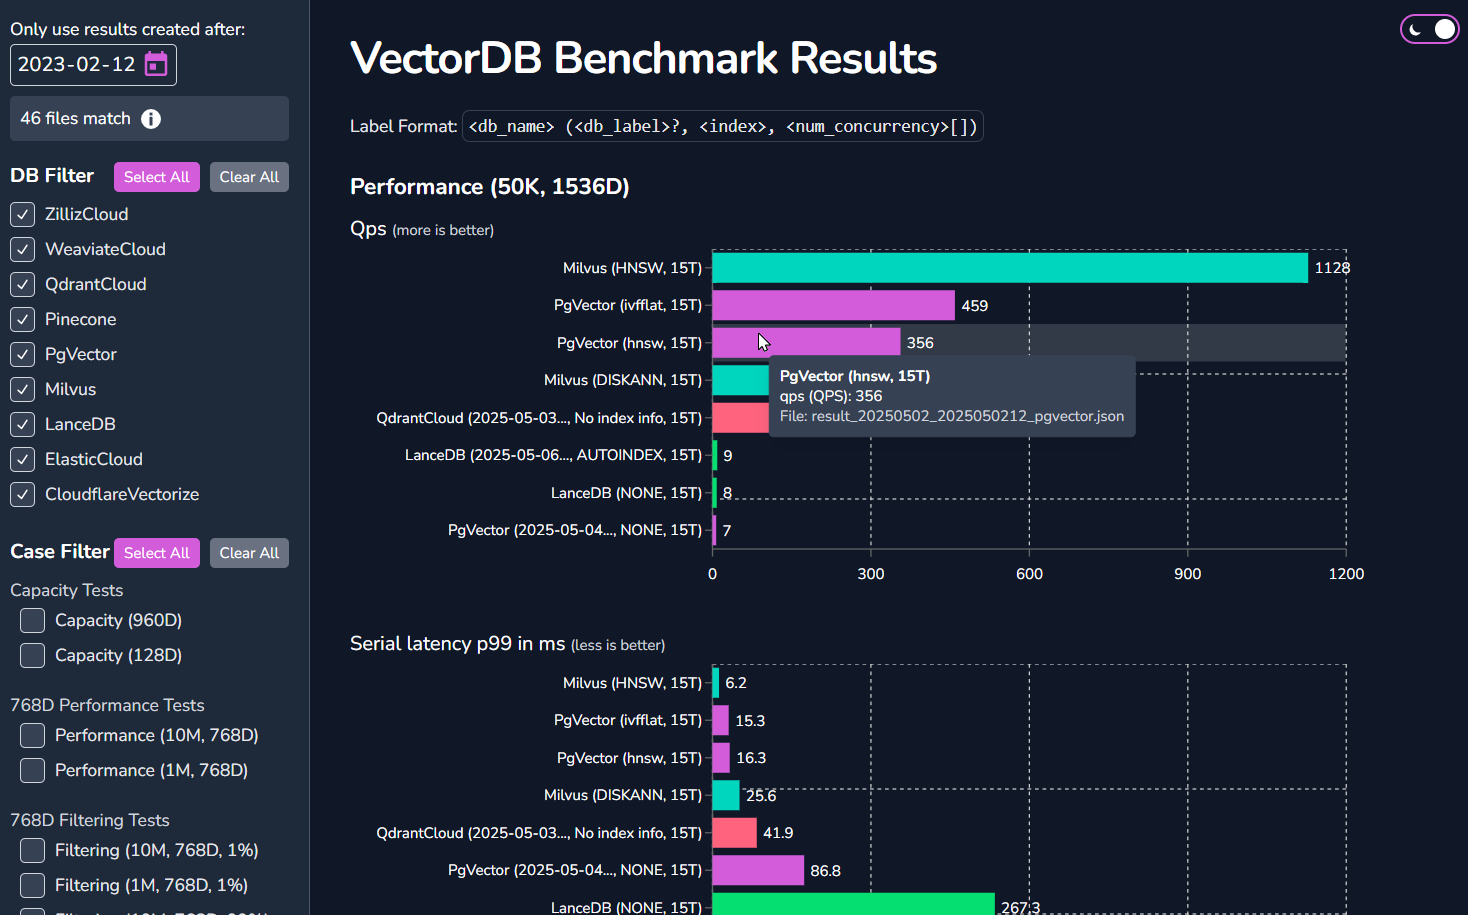
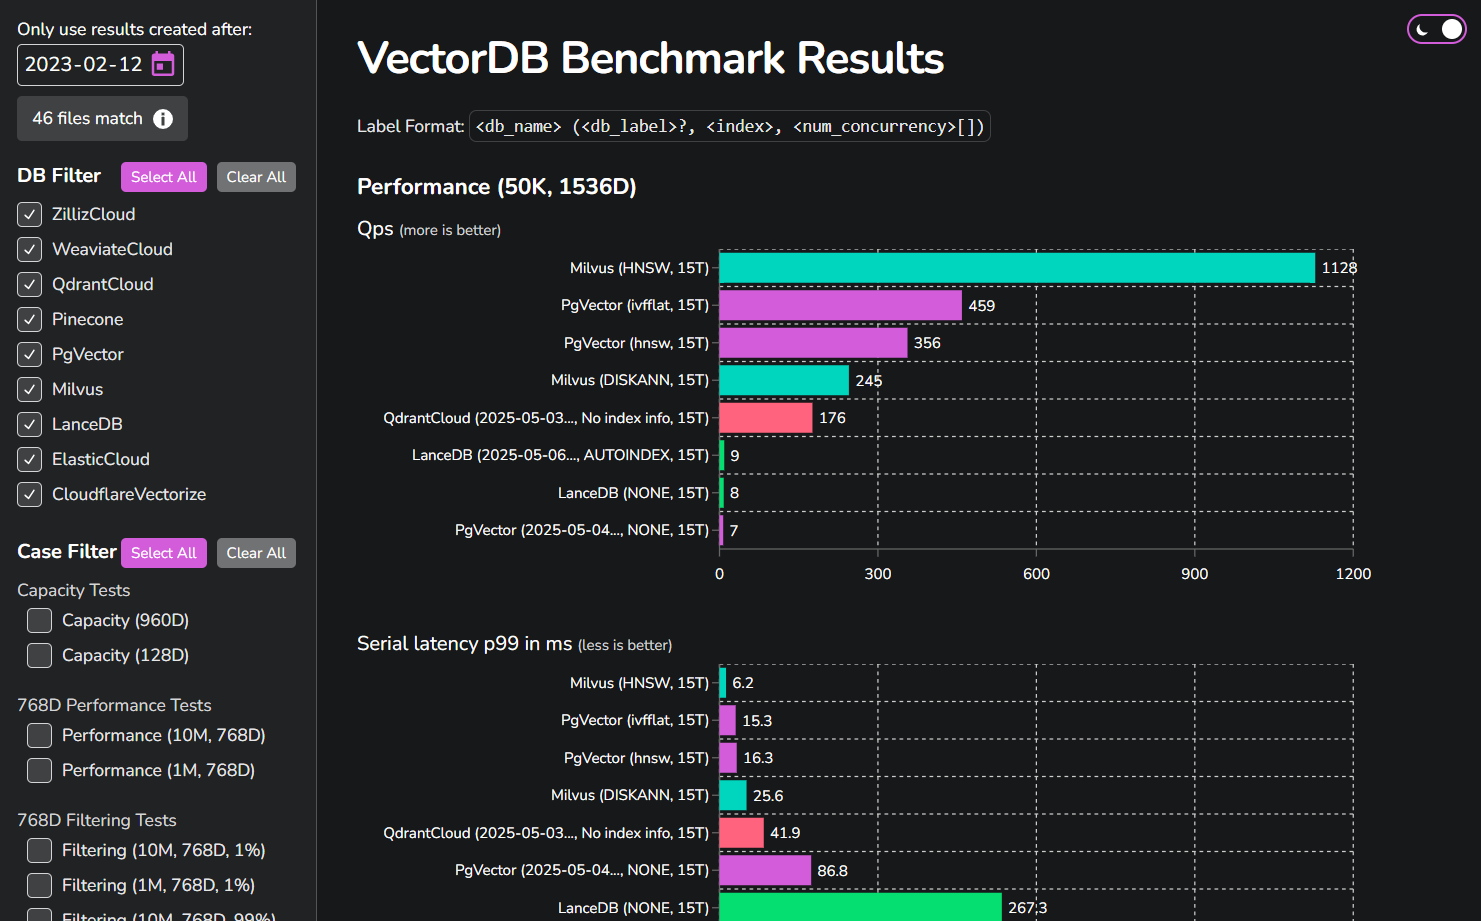
Tweak styles

diff --git a/src/components/ResultsChart.tsx b/src/components/ResultsChart.tsx
@@ -16,6 +16,9 @@ interface ResultsChartProps {
   data: ChartData[];
 }
 
+const BAR_HEIGHT = 30;
+const AXIS_HEIGHT_AND_PADDING = 40;
+
 export const metric_unit_map: Record<string, string> = {
   qps: 'QPS',
   serial_latency_p99: 'ms',
@@ -111,6 +114,7 @@ export const ResultsChart = ({ data }: ResultsChartProps) => {
             });
 
             const unit = metric_unit_map[metric] || '';
+            const height = sortedData.length * BAR_HEIGHT + AXIS_HEIGHT_AND_PADDING;
 
             return (
               <div key={metric} className="mb-6 print:break-inside-avoid">
@@ -122,14 +126,14 @@ export const ResultsChart = ({ data }: ResultsChartProps) => {
                   </span>
                 </h4>
 
-                <div style={{ height: `${sortedData.length * 35}px` }}>
+                <div style={{ height: `${height}px` }}>
                   <ResponsiveContainer width="100%" height="100%">
                     <BarChart
                       layout="vertical"
                       data={sortedData}
                       margin={{ bottom: 10, left: 50, right: 75 }}
                     >
-                      <CartesianGrid strokeDasharray="3 3" horizontalPoints={[0, 100, 200, 300, 400, 500, 600, 700, 800, 900, 1000]} />
+                      <CartesianGrid strokeDasharray="3 3" horizontalPoints={Array.from({ length: Math.ceil((height - AXIS_HEIGHT_AND_PADDING) / BAR_HEIGHT) }, (_, i) => i * BAR_HEIGHT)} />
                       <XAxis
                         type="number"
                         tick={(props) => (

diff --git a/src/components/Filters.tsx b/src/components/Filters.tsx
@@ -136,11 +136,11 @@ export const Filters = ({ dbNames, caseIds, onFiltersChange, fileCount = 0, filt
             onChange={handleStartDateChange}
             min={START_DATE}
             max={new Date().toISOString().split('T')[0]}
-            className="p-1 border border-gray-300 rounded"
+            className="border border-gray-300 rounded"
           />
         </div>
         <FileListTooltip files={filteredFiles}>
-          <div className="dark:bg-gray-700 bg-gray-200 p-2 rounded text-sm relative flex items-center">
+          <div className="dark:bg-gray-700 bg-gray-200 px-3 py-2 rounded text-sm relative inline-flex items-center">
             {fileCount} files match <svg className="ml-2" fill="currentColor" xmlns="http://www.w3.org/2000/svg" width="16px" height="16px" viewBox="0 0 416.979 416.979">
               <g>
                 <path d="M356.004,61.156c-81.37-81.47-213.377-81.551-294.848-0.182c-81.47,81.371-81.552,213.379-0.181,294.85

diff --git a/src/styles.css b/src/styles.css
@@ -4,11 +4,23 @@
 
 @theme {
   --color-primary: #d35cdb;
+
+  --color-gray-50: oklch(0.985 0.0024 247.92);
+  --color-gray-100: oklch(0.967 0.0024 247.92);
+  --color-gray-200: oklch(0.928 0.0024 247.92);
+  --color-gray-300: oklch(0.872 0.0024 247.92);
+  --color-gray-400: oklch(0.707 0.0024 247.92);
+  --color-gray-500: oklch(0.551 0.0024 247.92);
+  --color-gray-600: oklch(0.446 0.0024 247.92);
+  --color-gray-700: oklch(0.373 0.0024 247.92);
+  --color-gray-800: oklch(0.25 0.0024 247.92);
+  --color-gray-900: oklch(0.21 0.0024 247.92);
+  --color-gray-950: oklch(0.13 0.0024 247.92);
 }
 
 .recharts-tooltip-cursor {
   fill: var(--color-gray-500) !important;
-  opacity: 0.15 !important;
+  opacity: 0.1 !important;
 
   .dark & {
     fill: var(--color-gray-100) !important;

diff --git a/src/pages/_layout.tsx b/src/pages/_layout.tsx
@@ -8,7 +8,7 @@ export default async function RootLayout({ children }: RootLayoutProps) {
   const data = await getData();
 
   return (
-    <div className="font-['Nunito']">
+    <div className="font-['Nunito'] dark:bg-gray-900 dark:text-white">
       <meta name="description" content={data.description} />
       <link rel="icon" type="image/png" href={data.icon} />
       <main>

diff --git a/src/components/Results.tsx b/src/components/Results.tsx
@@ -73,7 +73,7 @@ export function Results({ results, chartData, dbNames, caseIds }: ResultsType) {
   };
 
   return (
-    <div className="flex dark:bg-gray-900 dark:text-white">
+    <div className="flex">
       <div className="print:hidden">
         <Filters
           dbNames={dbNames}
